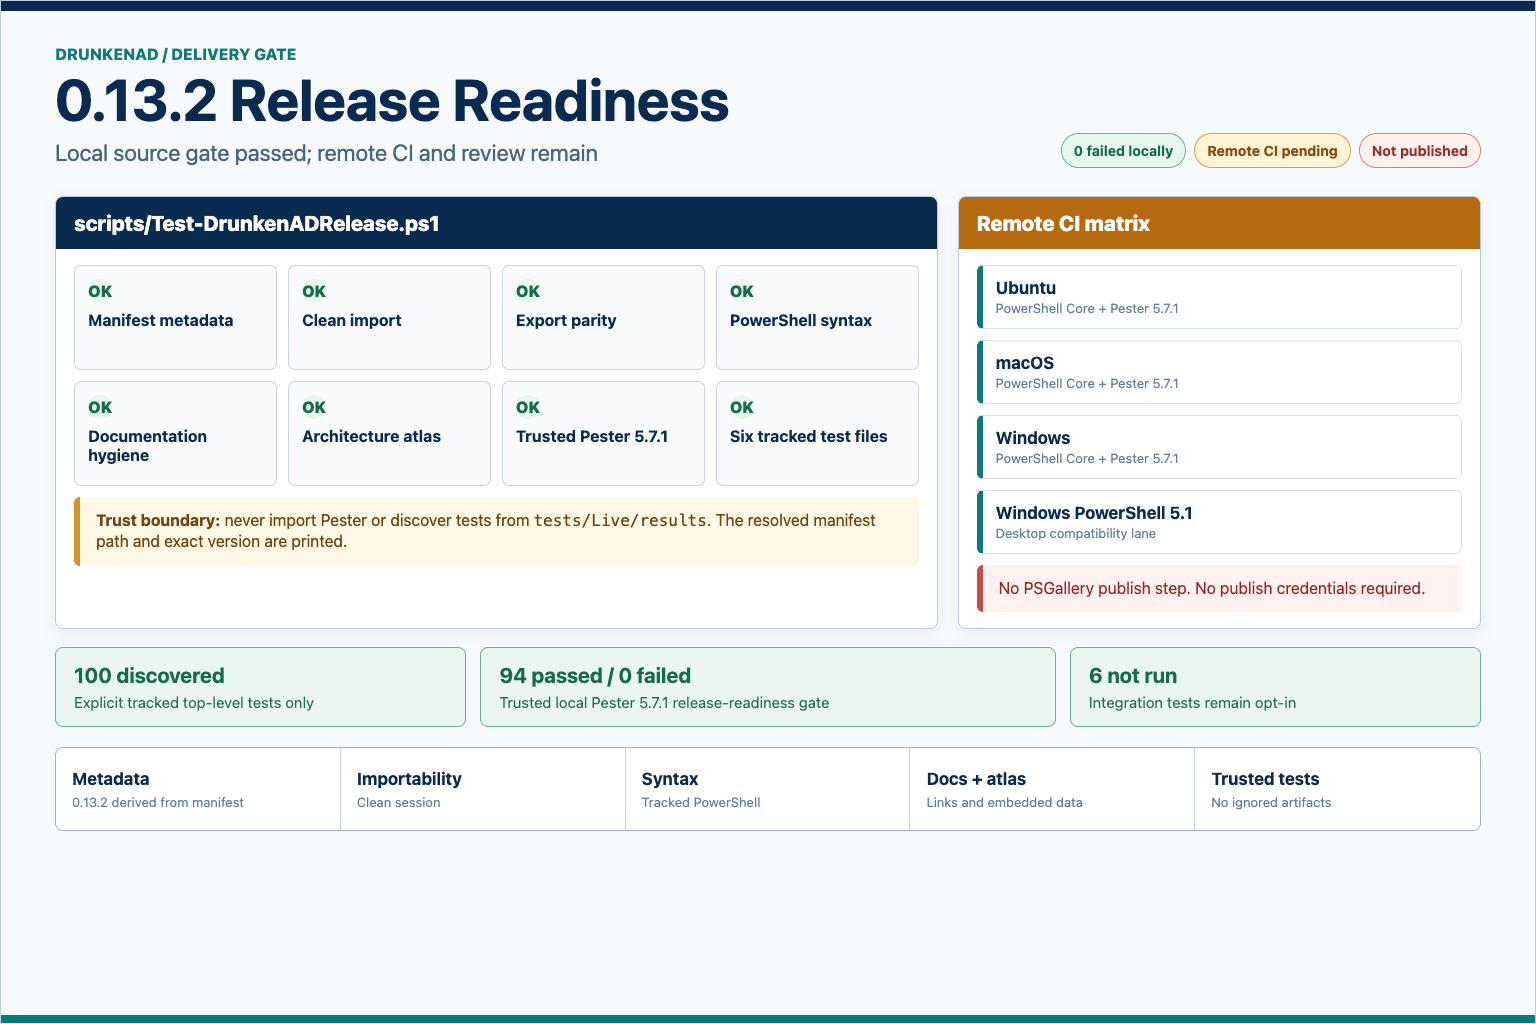
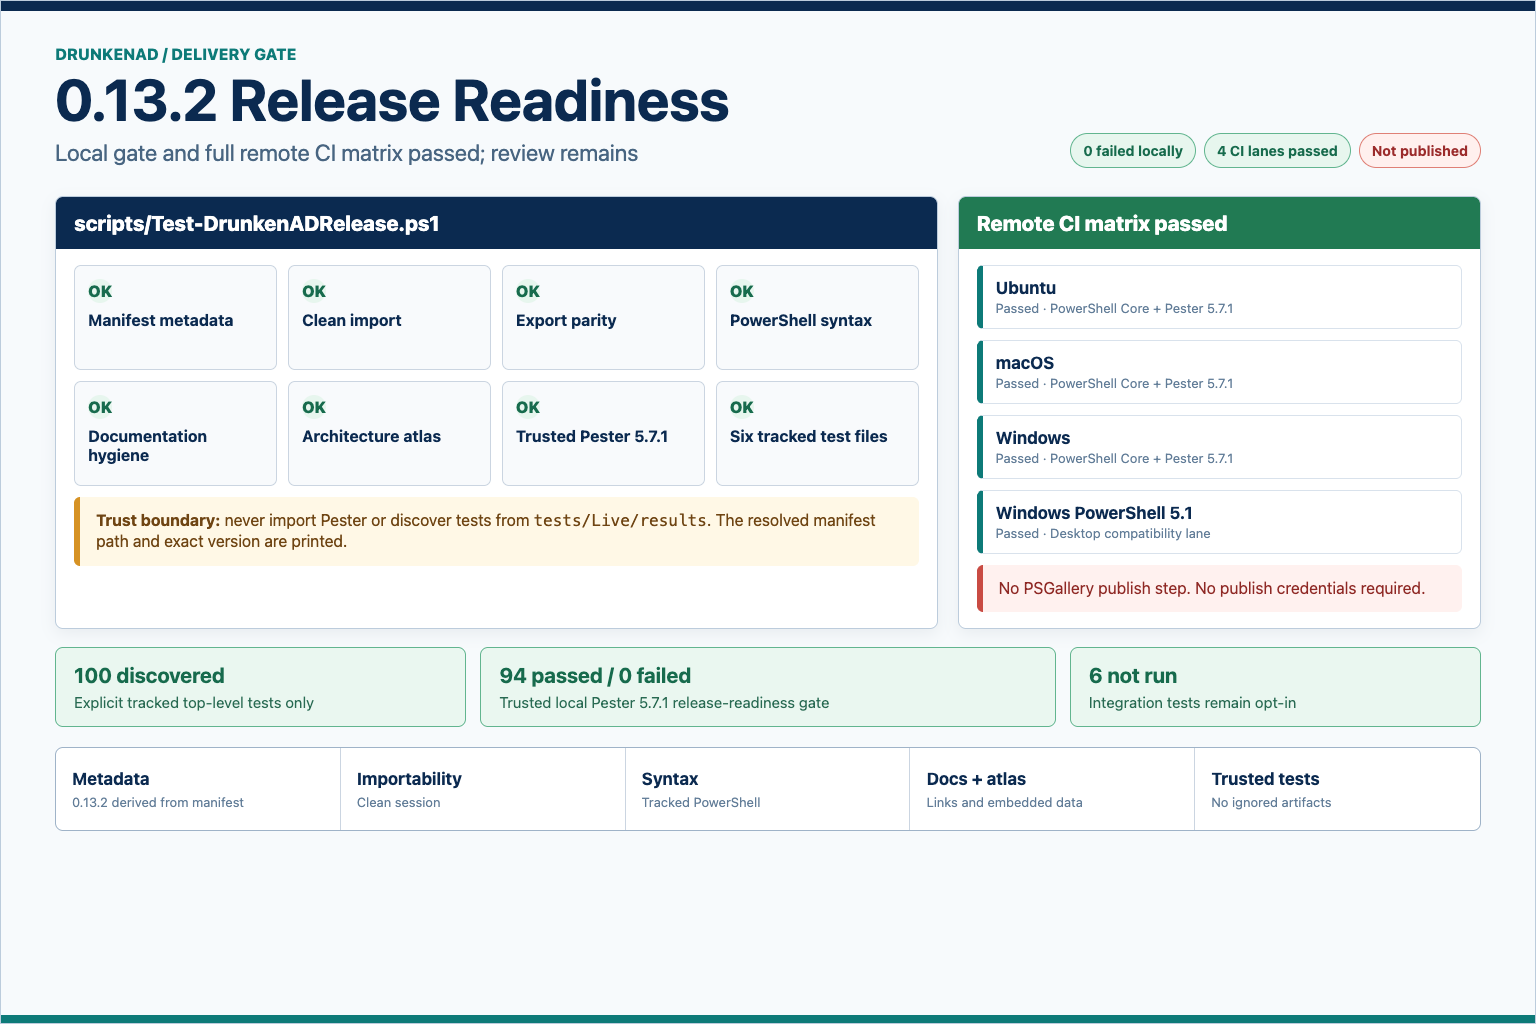
docs: record green cross-platform delivery

diff --git a/docs/images/documentation-suite-2026-05-11/image-prompts.md b/docs/images/documentation-suite-2026-05-11/image-prompts.md
@@ -20,7 +20,7 @@ The edit tightened the dashed connector from `Private helpers` so the arrowhead
 lands directly on the left edge of the `DrunkenAD.psd1` card.
 
 ```text
-Create a polished technical documentation infographic in a clean white, navy, teal, amber, and green palette. Title exactly: "DrunkenAD Module Layout". Subtitle exactly: "Focused internals, stable 12-command compatibility surface". Overall style should match the previous DrunkenAD generated plates: crisp white background, navy header bars, teal accents, amber highlights, realistic UI cards, readable technical labels, thin connector arrows, no mascots, no fake logos, no fantasy. Center top has a root module card labeled "DrunkenAD.psm1" with short text "deterministic dot-source loader". To the left, a stacked folder panel labeled "Private helpers" containing exact file labels: Core.ps1, PrefixMap.ps1, ProjectionMap.ps1, CsvMapping.ps1, SchemaStatus.ps1. To the right, group the public surface into exact short labels: Get / Set / Remove, CSV import + split, Projection + demo, Prefixed compatibility, Schema readiness, Legacy updater. State exactly "12 exported commands". Bottom center has a manifest card labeled "DrunkenAD.psd1" with "FunctionsToExport parity", "ModuleVersion 0.13.2", and "PowerShell 5.1". Bottom right has a source gate card with checks: syntax, docs, architecture atlas, trusted Pester 5.7.1, exported commands, manifest metadata. Bottom strip: Maintainable, Importable, PS 5.1, Source-gated, CI matrix. Do not claim a release was published or remotely proven.
+Create a polished technical documentation infographic in a clean white, navy, teal, amber, and green palette. Title exactly: "DrunkenAD Module Layout". Subtitle exactly: "Focused internals, stable 12-command compatibility surface". Overall style should match the previous DrunkenAD generated plates: crisp white background, navy header bars, teal accents, amber highlights, realistic UI cards, readable technical labels, thin connector arrows, no mascots, no fake logos, no fantasy. Center top has a root module card labeled "DrunkenAD.psm1" with short text "deterministic dot-source loader". To the left, a stacked folder panel labeled "Private helpers" containing exact file labels: Core.ps1, PrefixMap.ps1, ProjectionMap.ps1, CsvMapping.ps1, SchemaStatus.ps1. To the right, group the public surface into exact short labels: Get / Set / Remove, CSV import + split, Projection + demo, Prefixed compatibility, Schema readiness, Legacy updater. State exactly "12 exported commands". Bottom center has a manifest card labeled "DrunkenAD.psd1" with "FunctionsToExport parity", "ModuleVersion 0.13.2", and "PowerShell 5.1". Bottom right has a source gate card with checks: syntax, docs, architecture atlas, trusted Pester 5.7.1, exported commands, manifest metadata. Bottom strip: Maintainable, Importable, PS 5.1, Source-gated, CI matrix, with the exact CI status "All lanes passed". Do not claim the branch was merged, tagged, published, or live-lab verified.
 ```
 
 ## live-campaign-profiles.png
@@ -32,5 +32,5 @@ Create a polished technical documentation infographic in a clean white, navy, te
 ## release-readiness.png
 
 ```text
-Create a polished technical documentation infographic in a clean white, navy, teal, amber, and green palette. Title exactly: "0.13.2 Release Readiness". Subtitle exactly: "Local source gate passed; remote CI and review remain". Style must match the previous DrunkenAD documentation plates: crisp white background, navy title, teal connector lines, amber highlights, green checks, realistic UI cards, readable labels, no mascots, no fake logos, no fantasy. Center has a release gate dashboard titled "scripts/Test-DrunkenADRelease.ps1" with exact checks: Manifest metadata, Clean import, Export parity, PowerShell syntax, Documentation hygiene, Architecture atlas, Trusted Pester 5.7.1, Explicit six-file test allowlist. Show local result exactly: "100 discovered; 94 passed; 6 integration not run; 0 failed". Add a trust-boundary card: "Never import or discover tests from tests/Live/results". Left column titled "Inputs" with cards: DrunkenAD.psd1, DrunkenAD.psm1, Public commands, Private helpers, docs, tests. Right column titled "Remote CI matrix" with cards: Ubuntu pwsh, macOS pwsh, Windows pwsh, Windows PowerShell 5.1, no PSGallery publish. Bottom strip: Metadata, Importability, Syntax, Docs + atlas, Trusted tests, No publish credentials. Do not claim remote CI passed, the branch merged, a tag exists, or the module was published.
+Create a polished technical documentation infographic in a clean white, navy, teal, amber, and green palette. Title exactly: "0.13.2 Release Readiness". Subtitle exactly: "Local gate and full remote CI matrix passed; review remains". Style must match the previous DrunkenAD documentation plates: crisp white background, navy title, teal connector lines, amber highlights, green checks, realistic UI cards, readable labels, no mascots, no fake logos, no fantasy. Center has a release gate dashboard titled "scripts/Test-DrunkenADRelease.ps1" with exact checks: Manifest metadata, Clean import, Export parity, PowerShell syntax, Documentation hygiene, Architecture atlas, Trusted Pester 5.7.1, Explicit six-file test allowlist. Show local result exactly: "100 discovered; 94 passed; 6 integration not run; 0 failed". Add a trust-boundary card: "Never import or discover tests from tests/Live/results". Right column titled "Remote CI matrix" with passed cards: Ubuntu pwsh, macOS pwsh, Windows pwsh, Windows PowerShell 5.1, no PSGallery publish. Top status chips: "0 failed locally", "4 CI lanes passed", "Not published". Bottom strip: Metadata, Importability, Syntax, Docs + atlas, Trusted tests. Do not claim the branch was merged, tagged, published, or live-lab verified.
 ```

diff --git a/docs/issues/010-powershell-compatibility-and-culture-invariants.md b/docs/issues/010-powershell-compatibility-and-culture-invariants.md
@@ -1,6 +1,6 @@
 # Issue 010: PowerShell Compatibility And Culture Invariants
 
-Status: Implemented on `codex-bug-hunt-2026-07-16`; Windows test correction and live-lab verification pending
+Status: Implemented on `codex-bug-hunt-2026-07-16`; full CI matrix passed; live-lab verification pending
 
 GitHub issue: [#10](https://github.com/jonathanweinberg/DrunkenAD/issues/10)
 
@@ -114,15 +114,24 @@ The remote matrix then ran on delivery commit `43fccb3`:
 - Windows PowerShell Core and Windows PowerShell 5.1 reached the suite but
   failed two test portability assertions: a slash-specific manifest `FileList`
   match and a per-fragment multiline help-example check.
-- These failures are not a confirmed module runtime defect. The narrow
-  test-only correction remains subject to explicit approval.
+- These failures were test portability defects rather than a confirmed module
+  runtime defect.
+
+After explicit approval, commit `c259a1c` normalized manifest separators before
+the help-topic suffix check and aggregated parsed example code per command. The
+trusted local gate passed with 100 discovered, 94 passed, 0 failed, and 6 not
+run. Both current-head workflows then passed:
+
+- Documentation CI: https://github.com/jonathanweinberg/DrunkenAD/actions/runs/29535087208
+- PowerShell CI: https://github.com/jonathanweinberg/DrunkenAD/actions/runs/29535087237
+- Ubuntu, macOS, Windows PowerShell Core, and Windows PowerShell 5.1 all passed.
 
 ## Current GitHub State
 
 - GitHub Issue [#10](https://github.com/jonathanweinberg/DrunkenAD/issues/10)
   is open with `bug` and `maintenance` labels.
-- Its evidence comment links implementation commit `412a4e6`, delivery commit
-  `43fccb3`, and draft PR
+- Its evidence comments link implementation commit `412a4e6`, delivery commit
+  `43fccb3`, Windows portability commit `c259a1c`, and draft PR
   [#12](https://github.com/jonathanweinberg/DrunkenAD/pull/12).
-- Keep the issue open until the approved test correction produces a green
-  matrix and a controlled live-lab validation window is available.
+- Keep the issue open for review and a separately approved controlled live-lab
+  validation window.

diff --git a/docs/issues/009-live-campaign-ownership-and-input-guards.md b/docs/issues/009-live-campaign-ownership-and-input-guards.md
@@ -124,15 +124,15 @@ implementation. After the bounded changes:
 - no live AD command or campaign was executed
 
 The final trusted branch gate later reached 100 discovered tests: 94 passed, 0
-failed, and 6 environment-gated integration tests were not run. The issue
-remains open for review and a controlled live-lab `Quick` campaign after a green
-remote matrix and an explicitly approved mutation window are available.
+failed, and 6 environment-gated integration tests were not run. The complete
+remote matrix passed on `c259a1c`. The issue remains open for review and a
+controlled live-lab `Quick` campaign in an explicitly approved mutation window.
 
 ## Current GitHub State
 
 - GitHub Issue [#9](https://github.com/jonathanweinberg/DrunkenAD/issues/9)
   is open with `bug` and `maintenance` labels.
-- Its evidence comment links implementation commit `50cd9a9`, delivery commit
-  `43fccb3`, and draft PR
+- Its evidence comments link implementation commit `50cd9a9`, delivery commit
+  `43fccb3`, Windows portability commit `c259a1c`, and draft PR
   [#12](https://github.com/jonathanweinberg/DrunkenAD/pull/12).
 - Keep the issue open for review and future live-lab verification.

diff --git a/CHANGELOG.md b/CHANGELOG.md
@@ -14,6 +14,9 @@
   and record per-run inputs with SHA-256 hashes.
 - Added a Windows PowerShell 5.1 CI lane and regressions for script common
   parameters, JSON null/array conversion, and empty smoke assertions.
+- Made release-metadata and help-example assertions separator- and
+  parser-neutral, then passed the complete Ubuntu, macOS, Windows PowerShell
+  Core, and Windows PowerShell 5.1 matrix.
 - Fixed release-readiness drift by deriving the current release version from the
   module manifest instead of hardcoding an older release number.
 - Added architecture atlas validation for the reusable JSON map, embedded
@@ -23,7 +26,7 @@
   release gate catch map drift before release.
 - Refreshed the architecture atlas, Mermaid sources, issue mirrors, and six
   page-facing documentation plates to describe the current safety boundaries
-  without claiming remote CI, merge, tag, publish, or live-lab proof.
+  and verified CI state without claiming merge, tag, publish, or live-lab proof.
 
 ## 0.13.1
 

diff --git a/docs/issues/008-july-bug-hunt-prefix-isolation-and-input-safety.md b/docs/issues/008-july-bug-hunt-prefix-isolation-and-input-safety.md
@@ -221,9 +221,9 @@ Acceptance criteria:
 
 - GitHub Issue [#8](https://github.com/jonathanweinberg/DrunkenAD/issues/8)
   is open with `bug` and `maintenance` labels.
-- Its evidence comment links implementation commits, delivery commit `43fccb3`,
-  and draft PR [#12](https://github.com/jonathanweinberg/DrunkenAD/pull/12).
-- Documentation CI passed. PowerShell CI reached the branch tests and exposed
-  two Windows test-portability assertions tracked with Issue 010; the focused
-  test-only correction remains approval-gated.
+- Its evidence comments link implementation commits, delivery commit `43fccb3`,
+  Windows portability commit `c259a1c`, and draft PR
+  [#12](https://github.com/jonathanweinberg/DrunkenAD/pull/12).
+- Documentation CI and the complete Ubuntu, macOS, Windows PowerShell Core, and
+  Windows PowerShell 5.1 matrix passed on `c259a1c`.
 - Leave the issue open for review unless explicitly authorized to close it.

diff --git a/docs/DIAGRAMS.md b/docs/DIAGRAMS.md
@@ -188,7 +188,7 @@ flowchart LR
     TRUST["Trusted test boundary<br/>exact Pester 5.7.1 manifest<br/>six tracked top-level test files<br/>never tests/Live/results"]
     SCRIPT["scripts/Test-DrunkenADRelease.ps1"]
     CHECKS["Local source gate<br/>manifest metadata<br/>clean import + export parity<br/>syntax + docs + architecture<br/>94 passed; 6 integration not run"]
-    CI["Remote CI matrix<br/>Ubuntu pwsh<br/>macOS pwsh<br/>Windows pwsh<br/>Windows PowerShell 5.1<br/>no PSGallery publish"]
+    CI["Remote CI matrix passed<br/>Ubuntu pwsh<br/>macOS pwsh<br/>Windows pwsh<br/>Windows PowerShell 5.1<br/>no PSGallery publish"]
 
     INPUTS --> SCRIPT
     TRUST --> SCRIPT

diff --git a/docs/issues/011-empty-prefix-and-duplicate-csv-identities.md b/docs/issues/011-empty-prefix-and-duplicate-csv-identities.md
@@ -60,7 +60,7 @@ remained intentionally not run. A separate normal-path regression verifies that
 
 - GitHub Issue [#11](https://github.com/jonathanweinberg/DrunkenAD/issues/11)
   is open with `bug` and `maintenance` labels.
-- Its evidence comment links implementation commit `4dc6a13`, delivery commit
-  `43fccb3`, and draft PR
+- Its evidence comments link implementation commit `4dc6a13`, delivery commit
+  `43fccb3`, Windows portability commit `c259a1c`, and draft PR
   [#12](https://github.com/jonathanweinberg/DrunkenAD/pull/12).
 - Keep the issue open for review.
